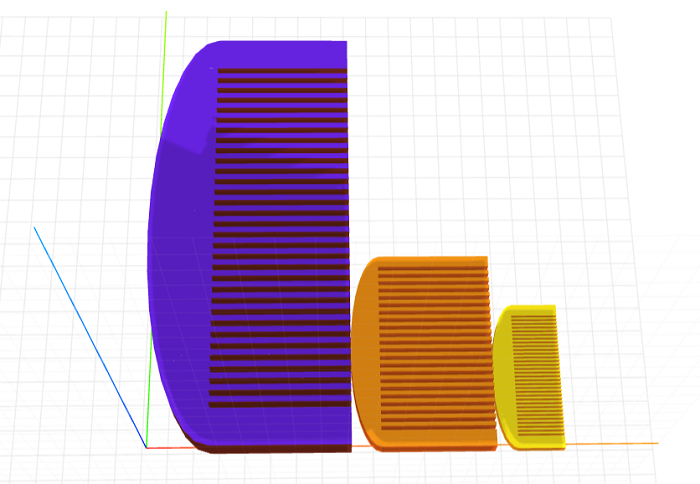
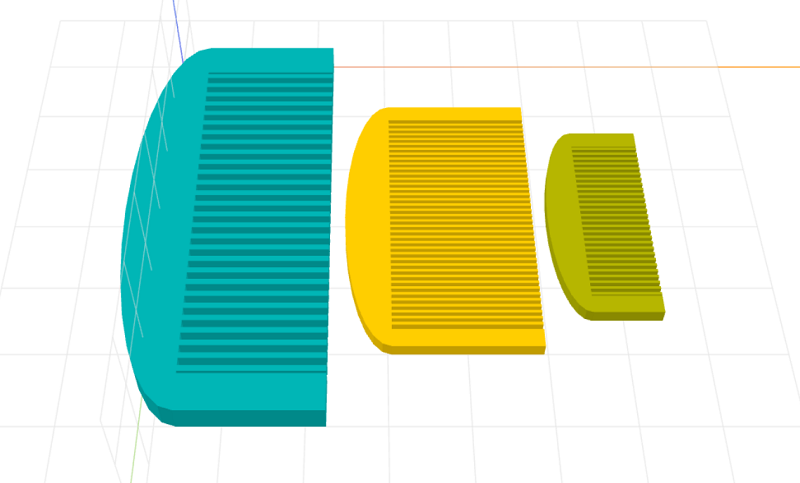
Added script type

diff --git a/README.md b/README.md
@@ -2,8 +2,13 @@
 
 Parameterized comb model.
 
-### Install
-    $ npm install craft-comb-calebhsu
+### Usage
+```html
+<craft>
+    <craft name="comb" module="craft-comb-calebhsu"/>
+	<comb></comb>
+</craft>
+```
 
 ### Parameters
 - width: adjusts width of comb
@@ -13,10 +18,10 @@ Parameterized comb model.
 ### Example
 ```html
 <craft>
-    <craft name="comb" module="craft-comb"/>
+    <craft name="comb" module="craft-comb-calebhsu"/>
     <row spacing="2">
-        <comb transform="scale(3,3,3)"></comb>
-        <comb length="10" width="6" transform="scale(2,2,2)"></comb>
+        <comb transform="scale(2 2 2)"></comb>
+        <comb length="40" width="20"></comb>
         <comb></comb>
     </row>
 </craft>
